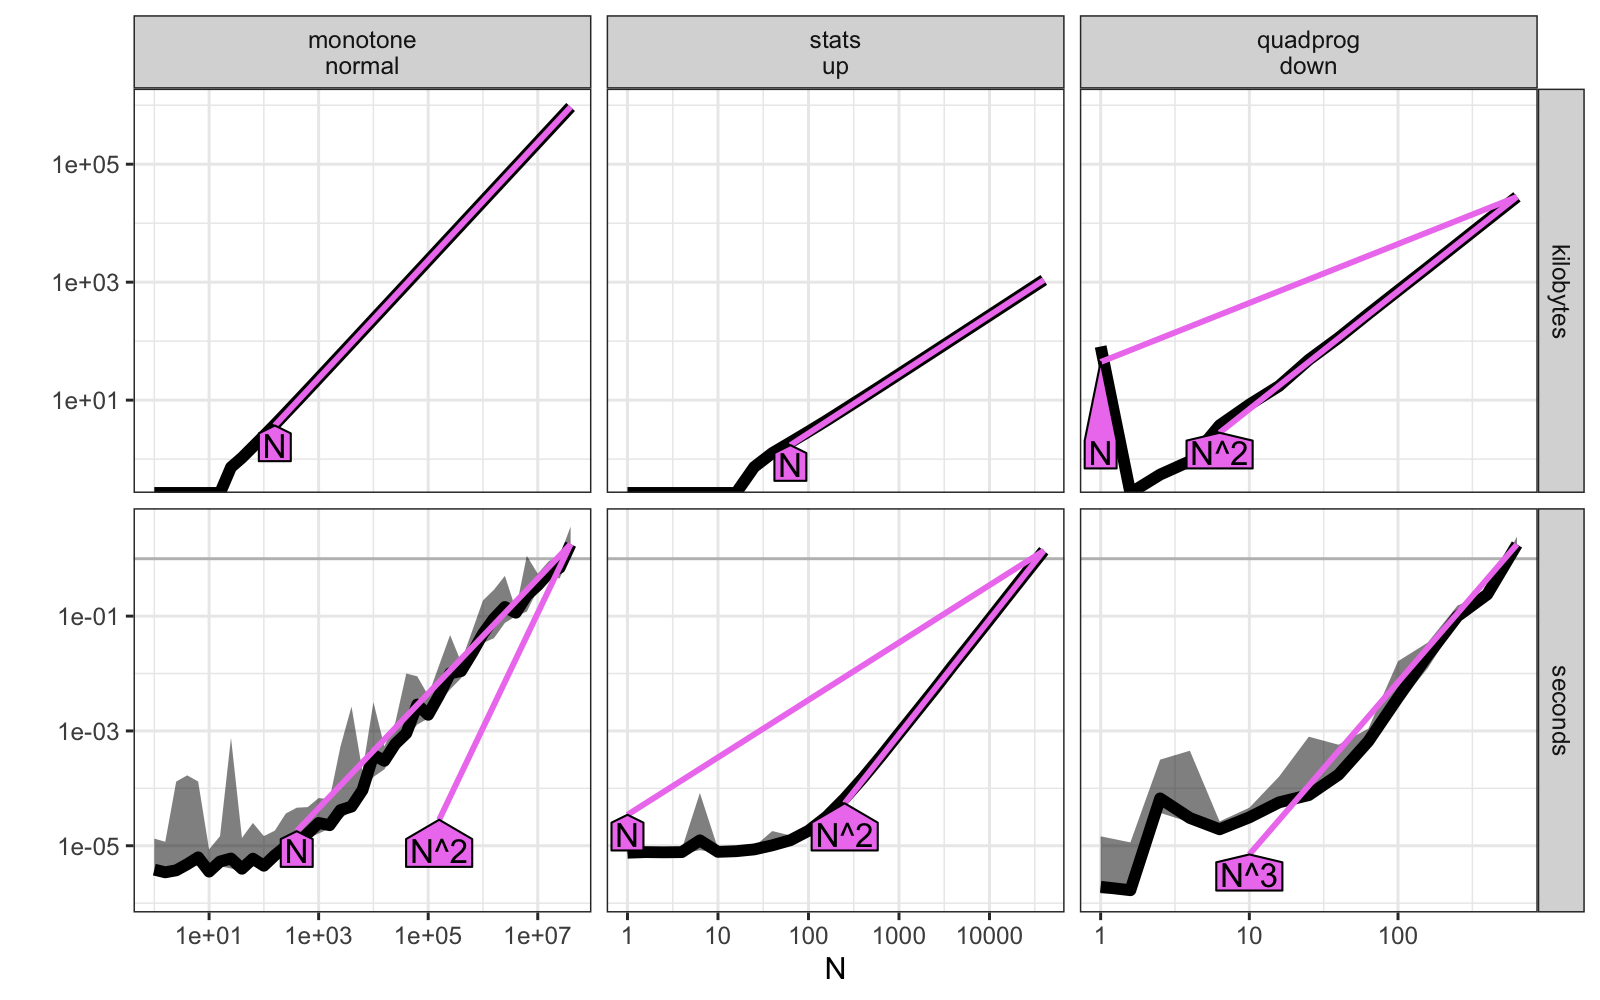
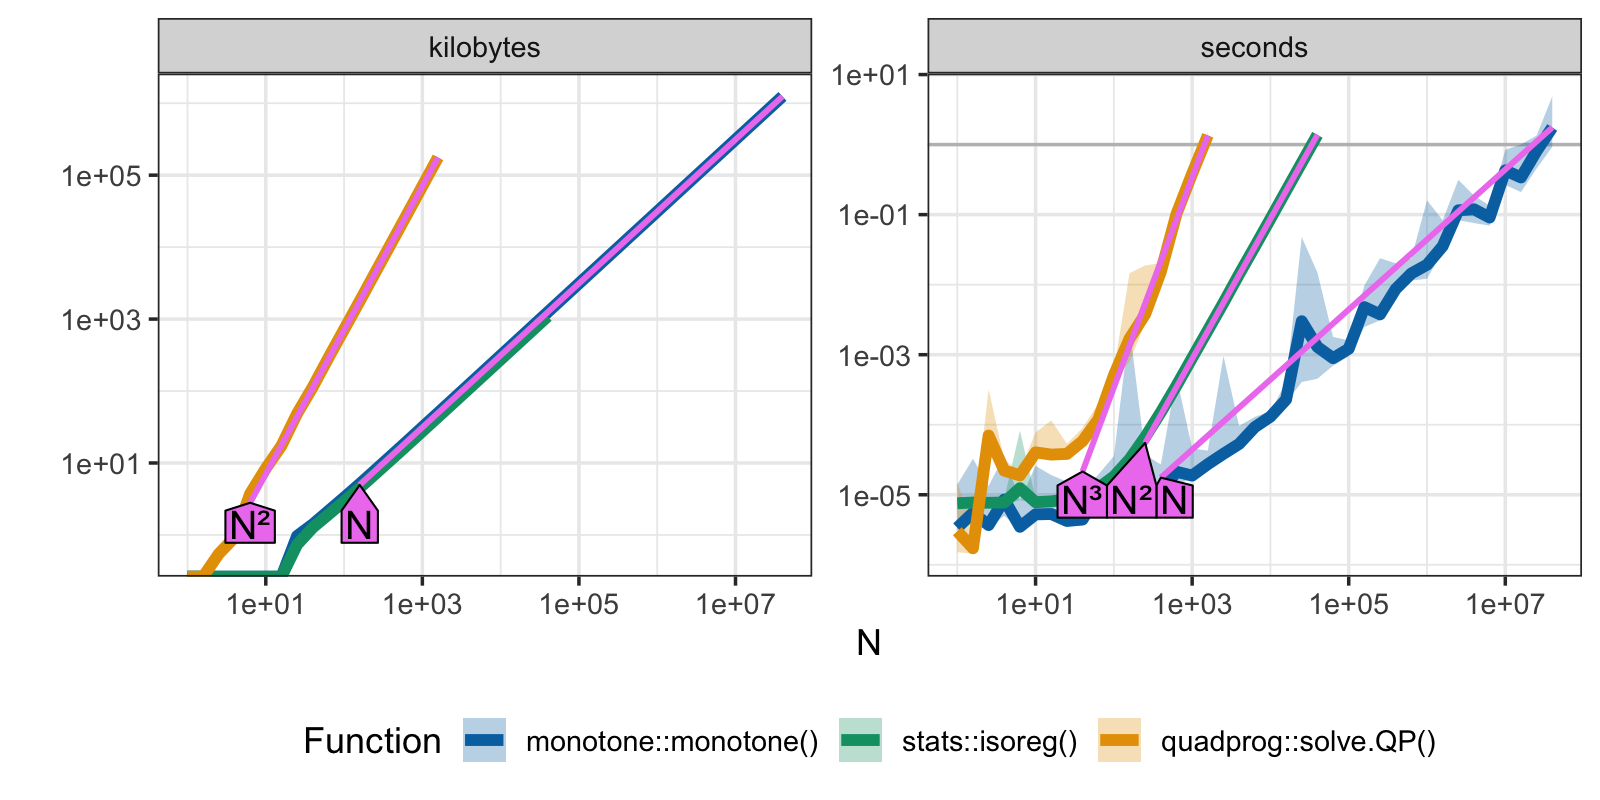
replace zigzag with labels data (still need to run make data), merge report figures, cap monotone N

diff --git a/results/PAPER_COMPARISON.md b/results/PAPER_COMPARISON.md
@@ -72,6 +72,8 @@ Memory-wise, the original implementation takes up less memory than the legacy ve
 | `monotone()` | 2019 | C | Yes | - | $n$ | No | $k$ | $k$ |
 | `intcox()` | 2007 | C | Yes | $2n$ | $n$ | No | 0 | $k$ |
 | `isoreg_dp()` | 2026 | C++ | No | $n$ | $n$ | No | 0 | $k$ |
-| `isoMean()` (`logcondens`) | 2006 | R | Yes | $2n$ | $n$ | No | 0 | $k$ |
-| `nnmaxheap_C()` (`orthoMTL`) | 2026 | R | No | $n$ | $n$ | No | 0 | $k$ |
+| `isoMean()` (`logcondens`)\* | 2006 | R | Yes | $3n$ | - | No | 0 | $k$ |
+| `nnmaxheap_C()` (`orthoMTL`)\* | 2026 | R | No | $2n$ | - | No | 0 | $k$ |
 | `monoSmooth_pava()` (`sffdr`) | 2026 | C++ | No | $2n$ | $n$ | No | 0 | $k$ |
+
+\* For these two R functions, $n$ of the auxiliary floats hold block indices, as their index vectors are stored as doubles in R.
